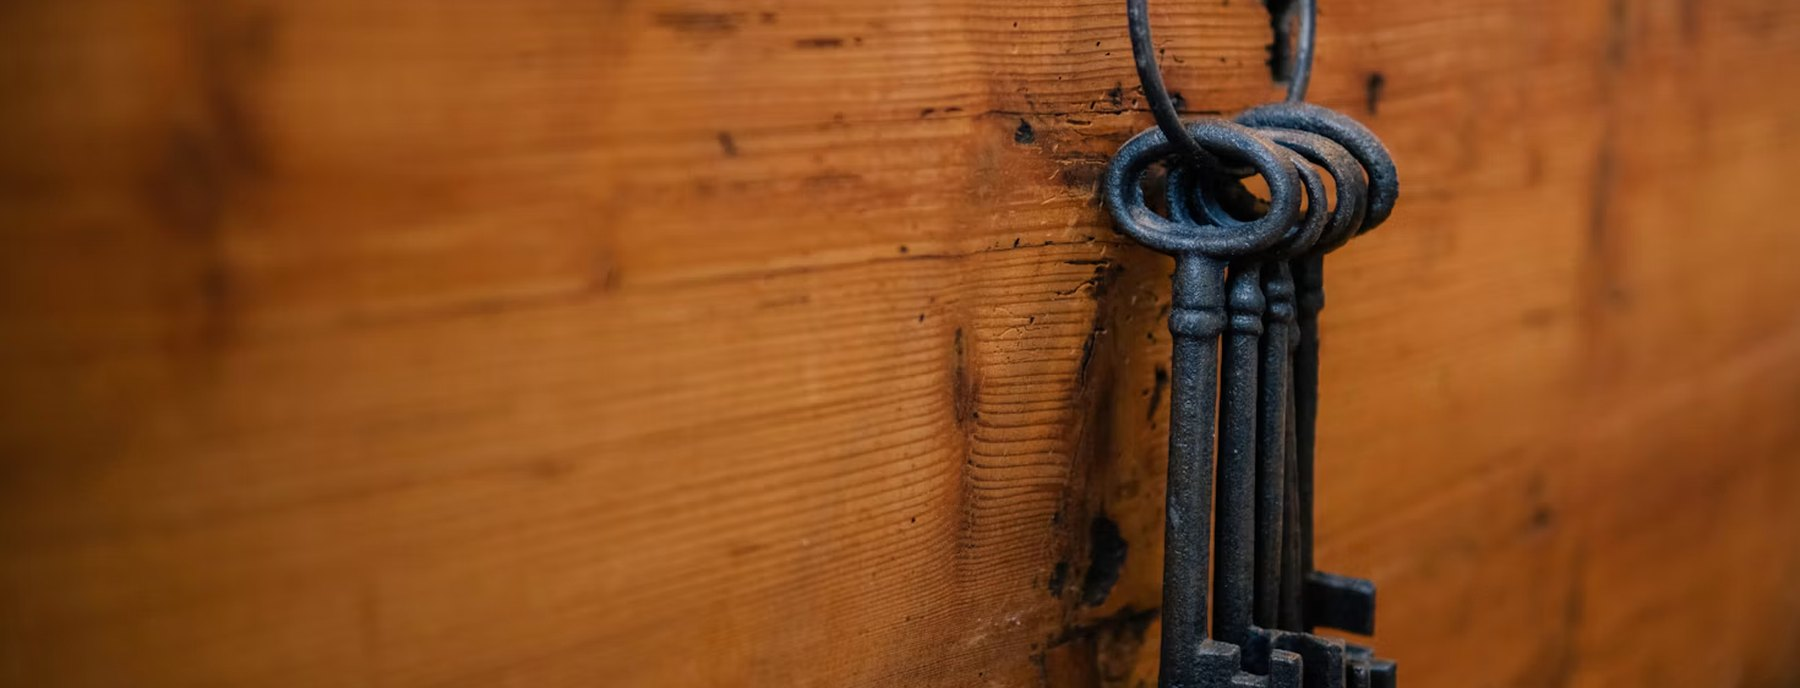
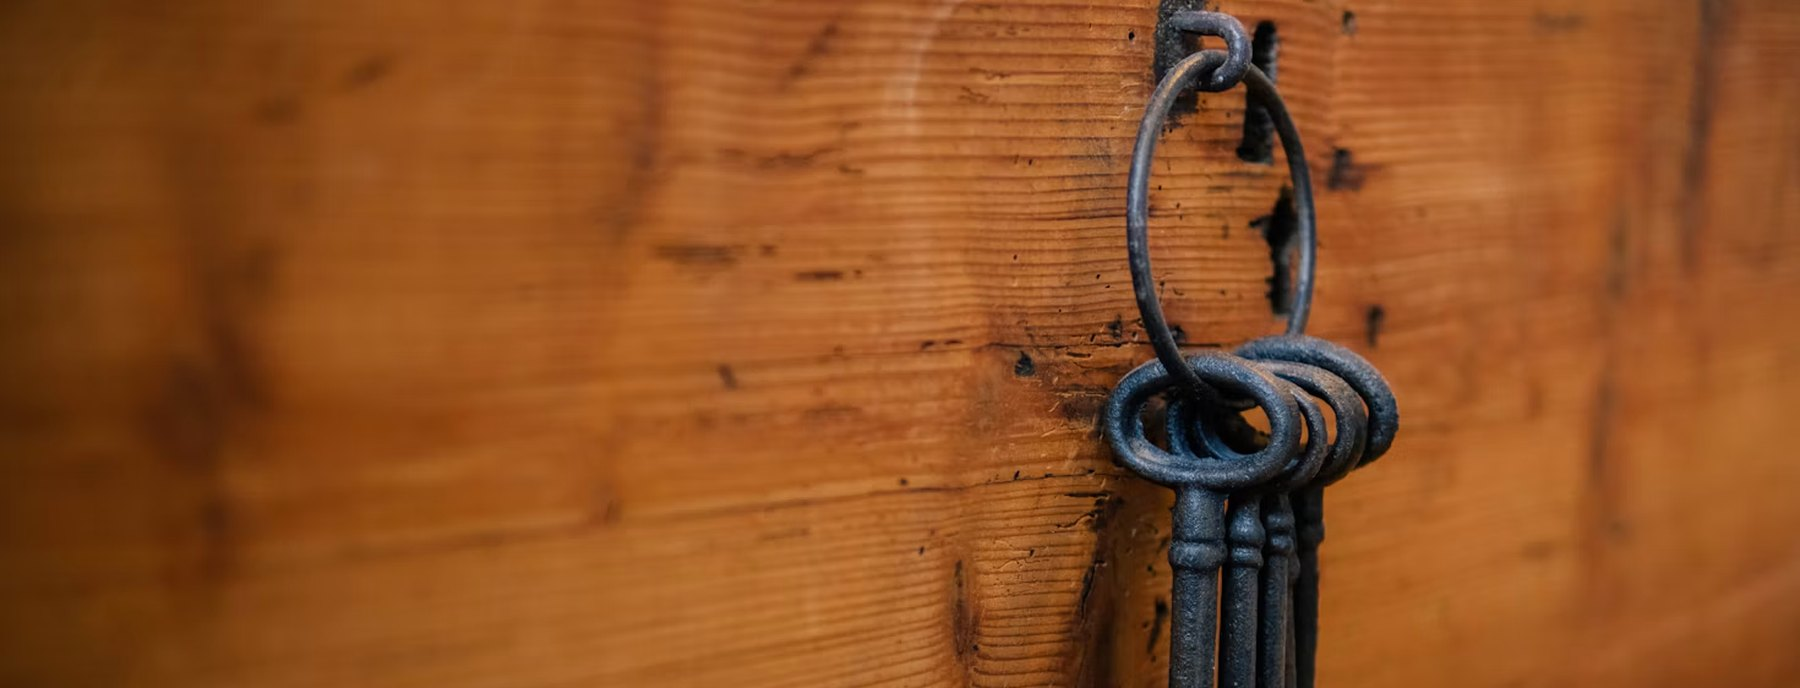
Imobiliário: enquadramento da foto com o argolão inteiro
Claude-Session: https://claude.ai/code/session_01NrC6XiSPHuVcpqhdrV3C4h

diff --git a/areas/index.html b/areas/index.html
@@ -294,7 +294,7 @@ html[data-hero="b"] .retrato{display:none}
       <h1>Onde atuo.</h1>
       <p class="lead">Antes do processo, a conversa: em qualquer das áreas, busco primeiro o acordo, e vou a juízo quando ele não é possível ou não vale a pena.</p>
       <div class="areas" data-v="fotos">
-        <a class="area" href="/areas/imobiliario.html"><div class="foto"><img class="cor" src="/areas/img/thumb/imobiliario.jpg?v=2" alt="" width="900" height="400" loading="lazy" style="object-position:50% 50%"></div><div class="corpo"><span class="ico" aria-hidden="true"><svg viewBox="0 0 24 24"><path d="M3 11.5 12 4l9 7.5M5.5 10v10h13V10M10 20v-6h4v6"/></svg></span><h3>Imobiliário</h3><p>Compra e venda, locação, posse e propriedade: contratos, despejo, ações possessórias e regularização de imóveis.</p></div></a>
+        <a class="area" href="/areas/imobiliario.html"><div class="foto"><img class="cor" src="/areas/img/thumb/imobiliario.jpg?v=3" alt="" width="900" height="400" loading="lazy" style="object-position:50% 50%"></div><div class="corpo"><span class="ico" aria-hidden="true"><svg viewBox="0 0 24 24"><path d="M3 11.5 12 4l9 7.5M5.5 10v10h13V10M10 20v-6h4v6"/></svg></span><h3>Imobiliário</h3><p>Compra e venda, locação, posse e propriedade: contratos, despejo, ações possessórias e regularização de imóveis.</p></div></a>
         <a class="area" href="/areas/consumidor.html"><div class="foto"><img src="/areas/img/thumb/consumidor.jpg" alt="" width="900" height="400" loading="lazy" style="object-position:50% 50%"></div><div class="corpo"><span class="ico" aria-hidden="true"><svg viewBox="0 0 24 24"><path d="M5 8h14l-1 12H6L5 8Zm4 0V6.5a3 3 0 0 1 6 0V8"/></svg></span><h3>Direito do consumidor</h3><p>Relações de consumo com bancos e fornecedores: fraudes, cobranças indevidas e serviços que falham, em juízo e fora dele.</p></div></a>
         <a class="area" href="/areas/contratos-e-negociacoes.html"><div class="foto"><img src="/areas/img/thumb/contratos-e-negociacoes.jpg" alt="" width="900" height="400" loading="lazy" style="object-position:50% 50%"></div><div class="corpo"><span class="ico" aria-hidden="true"><svg viewBox="0 0 24 24"><path d="M7 3h8l4 4v14H7V3Zm8 0v4h4M10 12h6M10 16h6"/></svg></span><h3>Contratos e negociações</h3><p>Elaboração, revisão e negociação de contratos, para pessoas e empresas, inclusive do setor da construção civil. Notificações, acordos, inadimplemento, revisão e rescisão.</p></div></a>
         <a class="area" href="/areas/planos-de-saude.html"><div class="foto"><img src="/areas/img/thumb/planos-de-saude.jpg" alt="" width="900" height="400" loading="lazy" style="object-position:50% 34%"></div><div class="corpo"><span class="ico" aria-hidden="true"><svg viewBox="0 0 24 24"><path d="M12 20s-7-4.5-7-10a4 4 0 0 1 7-2.5A4 4 0 0 1 19 10c0 5.5-7 10-7 10Z"/><path d="M12 9v5M9.5 11.5h5"/></svg></span><h3>Planos de saúde</h3><p>Negativas de cobertura, reajustes e rescisões de contrato com operadoras, em juízo e fora dele.</p></div></a>

diff --git a/areas/imobiliario.html b/areas/imobiliario.html
@@ -223,7 +223,7 @@ footer a{color:inherit;text-decoration:underline;text-underline-offset:3px}
 <path d="M 332.55 361.12 L 652.71 361.17 L 653.40 340.76 L 332.05 340.60 Z"/></svg>
 <main>
 <div class="page"><div class="wrap">
-<img class="faixa cor" src="/areas/img/imobiliario.jpg?v=2" alt="" width="1800" height="400" loading="eager">
+<img class="faixa cor" src="/areas/img/imobiliario.jpg?v=3" alt="" width="1800" height="400" loading="eager">
 <p class="eyebrow">Áreas de atuação</p>
 <h1>Direito imobiliário.</h1>
 <div class="art">
